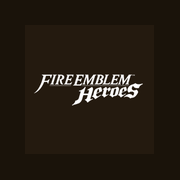
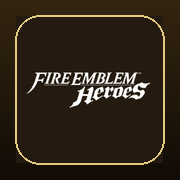
feat(mobile): cartes plus petites sur mobile + icone PWA remplie
- Grille : 3 colonnes sur mobile (minmax 102px) au lieu de 2 (128px). HeroCard :
  texte/badges/offsets reduits en base, restaures en sm: (rendu bureau inchange).
- Icone : fond degrade chaud + cadre or FEH + logo plus grand (remplit le cadre,
  fini les marges noires). Regeneree en 192/512/maskable/apple.

Changed region(s): [[0.1389, 0.3889, 0.8333, 0.6111], [0.0833, 0.0833, 0.9167, 0.9167], [0.0, 0.0, 1.0, 0.0556]]

diff --git a/src/components/HeroCard.tsx b/src/components/HeroCard.tsx
@@ -104,7 +104,7 @@ export function HeroCard({
           <span
             title="Niveau 40 (max)"
             aria-label="Niveau 40"
-            className="pointer-events-none absolute left-1/2 top-0 z-20 rounded-t-md px-2.5 py-[3px] font-feh text-[10.5px] font-bold leading-none tracking-[0.5px] text-[#3a2a06] shadow-[0_-1px_3px_rgba(0,0,0,.45)] ring-1 ring-[rgba(255,244,214,.7)]"
+            className="pointer-events-none absolute left-1/2 top-0 z-20 rounded-t-md px-1.5 py-[2px] sm:px-2.5 sm:py-[3px] font-feh text-[8px] sm:text-[10.5px] font-bold leading-none tracking-[0.5px] text-[#3a2a06] shadow-[0_-1px_3px_rgba(0,0,0,.45)] ring-1 ring-[rgba(255,244,214,.7)]"
             style={{
               background: 'linear-gradient(180deg,#ffe9a8,#e8c45e 58%,#b78a2e)',
               // bas de l'onglet posé PILE sur le bord haut du cadre (tout au-dessus)
@@ -119,7 +119,7 @@ export function HeroCard({
 
         <div className="card-flash relative aspect-[1/1.06] overflow-hidden rounded-2xl bg-[rgba(14,10,7,.72)]">
           {/* le sprite respire au survol/focus */}
-          <div className="card-sprite-bob absolute inset-x-0 top-0 bottom-[62px]">
+          <div className="card-sprite-bob absolute inset-x-0 top-0 bottom-[44px] sm:bottom-[62px]">
             <HeroPortrait
               hero={hero}
               className="h-full w-full"
@@ -131,7 +131,7 @@ export function HeroCard({
           {/* dégradé bas pour lisibilité du texte */}
           <div
             aria-hidden
-            className="absolute inset-x-0 bottom-0 h-[82px] bg-gradient-to-b from-transparent via-[rgba(14,10,7,.88)] to-[rgba(14,10,7,.96)]"
+            className="absolute inset-x-0 bottom-0 h-[60px] sm:h-[82px] bg-gradient-to-b from-transparent via-[rgba(14,10,7,.88)] to-[rgba(14,10,7,.96)]"
           />
 
           {/* éclat « Get ! » quand le héros vient de rejoindre la collection */}
@@ -181,7 +181,7 @@ export function HeroCard({
                 <img
                   src="/feh/ui/alternate_art.png"
                   alt=""
-                  className={`h-9 w-9 object-contain ${
+                  className={`h-6 w-6 sm:h-9 sm:w-9 object-contain ${
                     resplendentObtained
                       ? 'drop-shadow-[0_0_6px_rgba(251,230,166,0.9)]'
                       : 'opacity-70 grayscale drop-shadow-[0_1px_3px_rgba(0,0,0,.6)]'
@@ -193,7 +193,7 @@ export function HeroCard({
                 src="/feh/ui/alternate_art.png"
                 alt="Tenue resplendissante"
                 title="Tenue resplendissante"
-                className={`pointer-events-none absolute left-2 top-2 z-20 h-9 w-9 object-contain ${
+                className={`pointer-events-none absolute left-2 top-2 z-20 h-6 w-6 sm:h-9 sm:w-9 object-contain ${
                   resplendentObtained
                     ? 'drop-shadow-[0_0_6px_rgba(251,230,166,0.9)]'
                     : 'opacity-70 grayscale drop-shadow-[0_1px_3px_rgba(0,0,0,.6)]'
@@ -226,7 +226,7 @@ export function HeroCard({
               <img
                 src={owned ? '/feh/ui/button_down.png' : '/feh/ui/plus.png'}
                 alt=""
-                className={`h-7 w-7 drop-shadow-[0_2px_3px_rgba(0,0,0,.5)] transition-opacity ${
+                className={`h-5 w-5 sm:h-7 sm:w-7 drop-shadow-[0_2px_3px_rgba(0,0,0,.5)] transition-opacity ${
                   owned
                     ? 'opacity-0 group-hover:opacity-100 group-focus-within:opacity-100'
                     : ''
@@ -236,7 +236,7 @@ export function HeroCard({
           )}
 
           {/* étoiles */}
-          <div className="pointer-events-none absolute inset-x-0 bottom-[44px] z-20 flex justify-center text-[11px] tracking-[1px] text-gold-text">
+          <div className="pointer-events-none absolute inset-x-0 bottom-[30px] sm:bottom-[44px] z-20 flex justify-center text-[8px] sm:text-[11px] tracking-[1px] text-gold-text">
             <RarityStars
               rarity={displayRarity}
               rarityUrl={rarityIcons.get(displayRarity)}
@@ -244,11 +244,11 @@ export function HeroCard({
           </div>
 
           {/* nom + épithète */}
-          <div className="pointer-events-none absolute inset-x-0 bottom-[11px] z-20 px-2 text-center">
-            <div className="font-feh text-[17px] font-semibold leading-[1.05] tracking-[0.3px] text-warm-head">
+          <div className="pointer-events-none absolute inset-x-0 bottom-[7px] sm:bottom-[11px] z-20 px-1.5 sm:px-2 text-center">
+            <div className="truncate font-feh text-[12px] sm:text-[17px] font-semibold leading-[1.05] tracking-[0.3px] text-warm-head">
               {hero.name}
             </div>
-            <div className="mt-px truncate text-[10.5px] text-[#c4b48f]">
+            <div className="mt-px truncate text-[8.5px] sm:text-[10.5px] text-[#c4b48f]">
               {hero.title}
             </div>
           </div>

diff --git a/src/App.tsx b/src/App.tsx
@@ -661,7 +661,7 @@ export default function App() {
                 </div>
               ) : null}
               <div
-                className="grid gap-3 sm:gap-4 [grid-template-columns:repeat(auto-fill,minmax(128px,1fr))] sm:[grid-template-columns:repeat(auto-fill,minmax(152px,1fr))] md:[grid-template-columns:repeat(auto-fill,minmax(176px,1fr))]"
+                className="grid gap-2 sm:gap-4 [grid-template-columns:repeat(auto-fill,minmax(102px,1fr))] sm:[grid-template-columns:repeat(auto-fill,minmax(152px,1fr))] md:[grid-template-columns:repeat(auto-fill,minmax(176px,1fr))]"
               >
                 {shown.map((h, i) => (
                   <HeroCard
